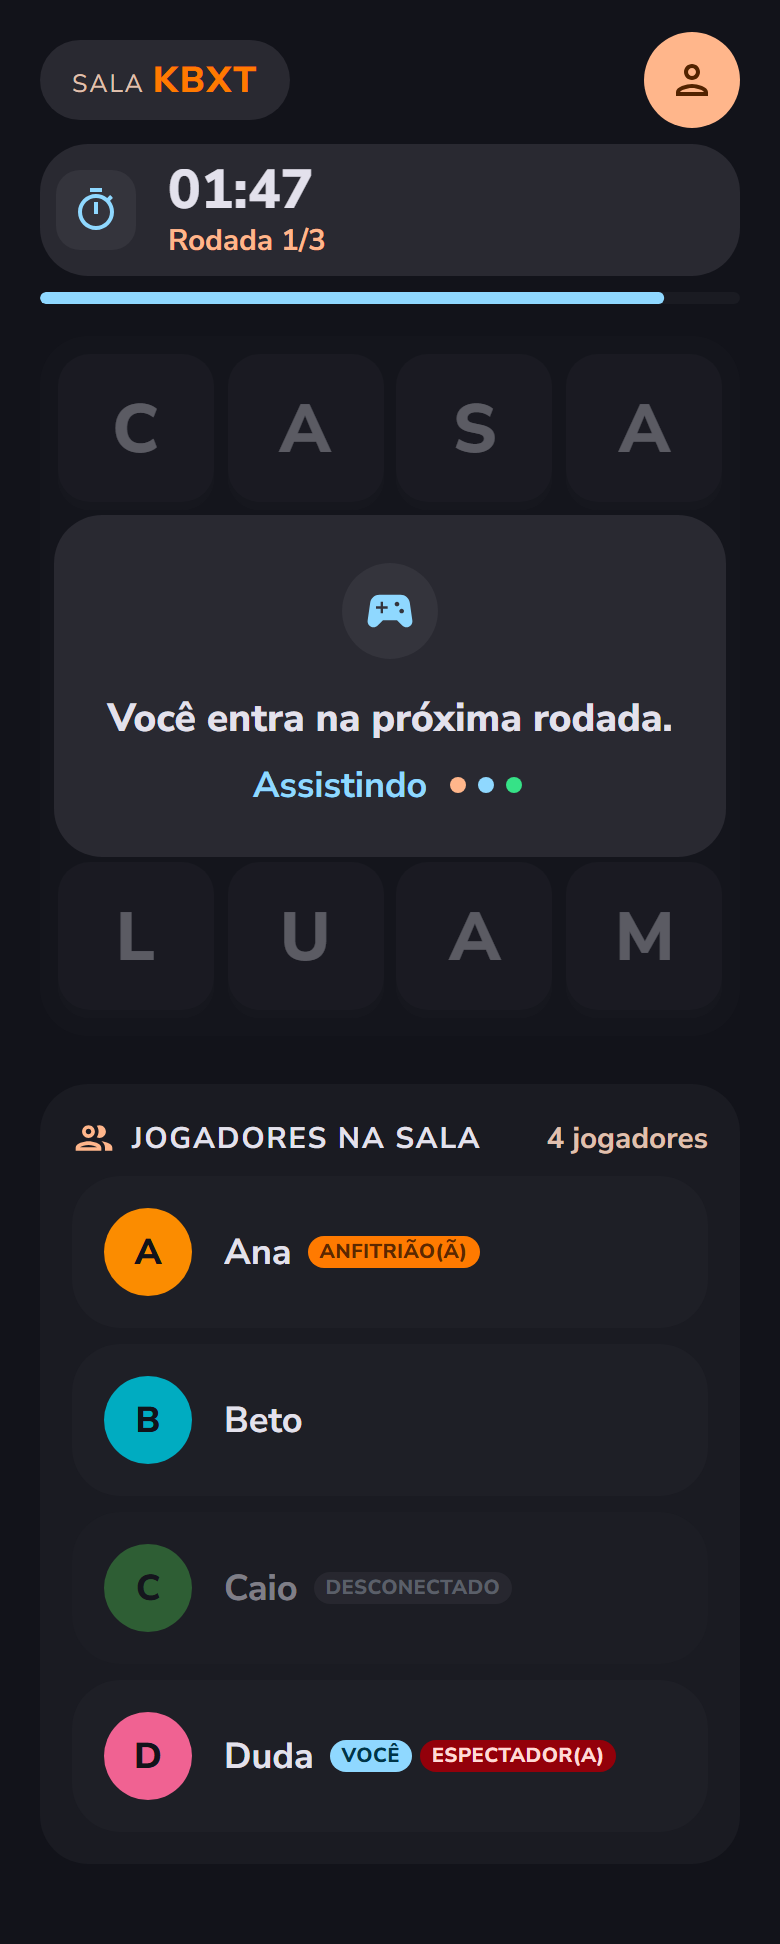
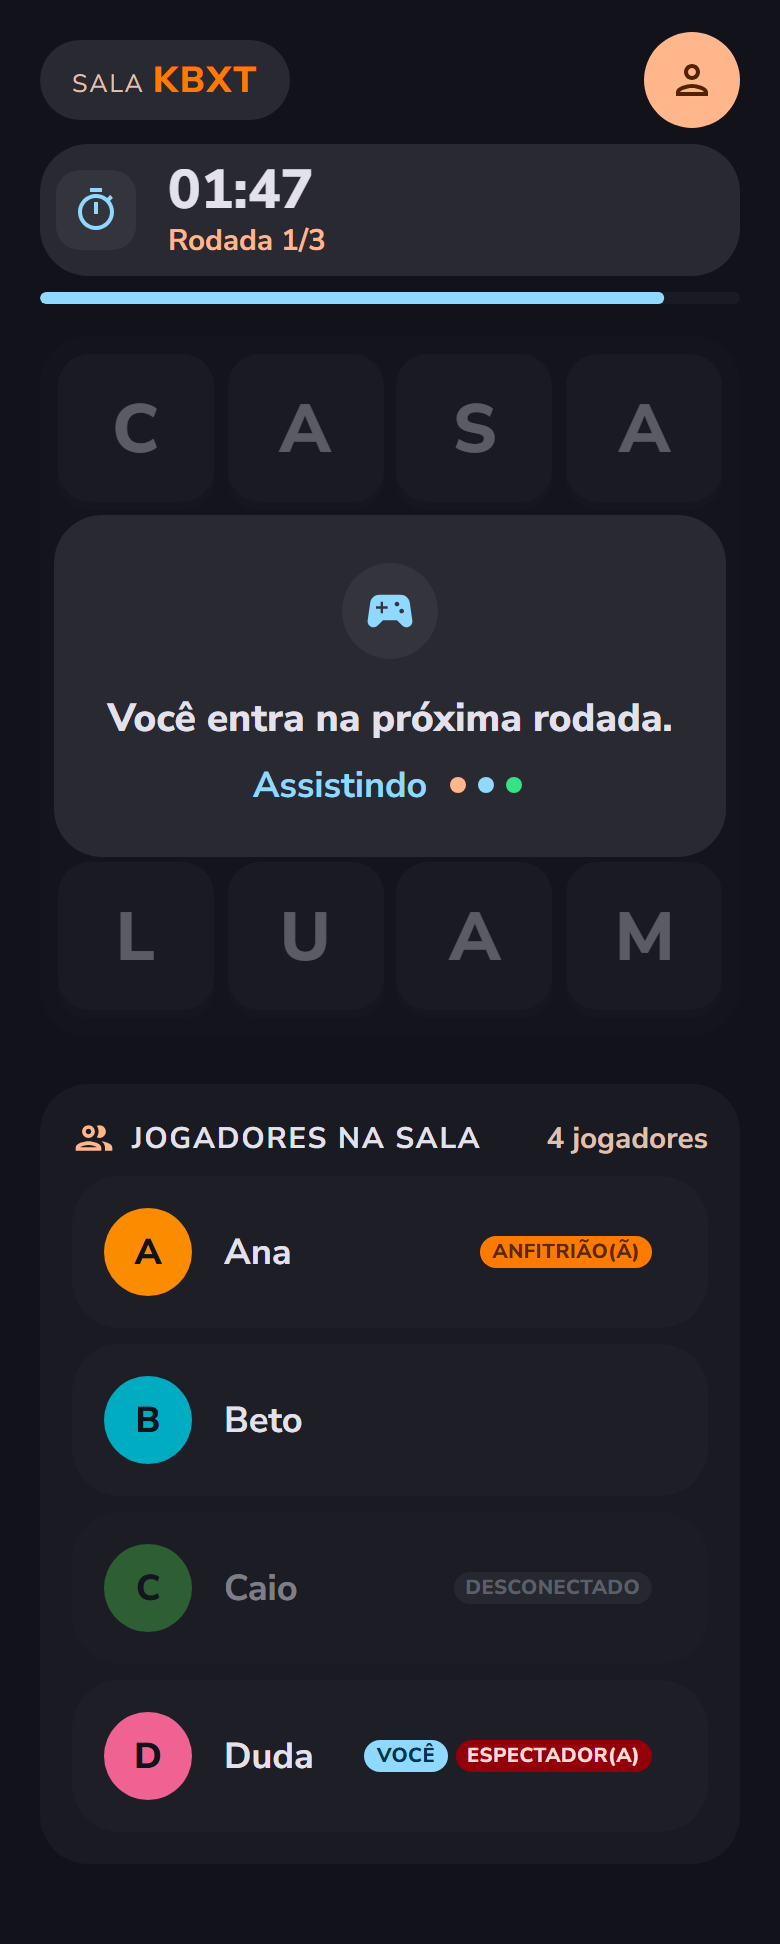
fix(phone): spectator tags at the right end of the row
The spectator's list has no wins, so the tags sit at the row's right
end, and stay there when they wrap at 320 px (C68, phone-spectator.png).

Changed region(s): [[0.4, 0.6173, 0.8308, 0.679], [0.4308, 0.8951, 0.8308, 0.9259], [0.4308, 0.8025, 0.8308, 0.8333]]

diff --git a/packages/phone/src/styles/spectator.css b/packages/phone/src/styles/spectator.css
@@ -97,3 +97,13 @@
   padding: 0;
   list-style: none;
 }
+
+/* The spectator's list has no wins, so the tags go to the right end of the row (phone-spectator.png). */
+.spectator__players .player-row__name {
+  margin-right: auto;
+}
+
+/* Tags that wrap on a narrow screen stay at the right end too. */
+.spectator__players .player-row__who {
+  justify-content: flex-end;
+}
